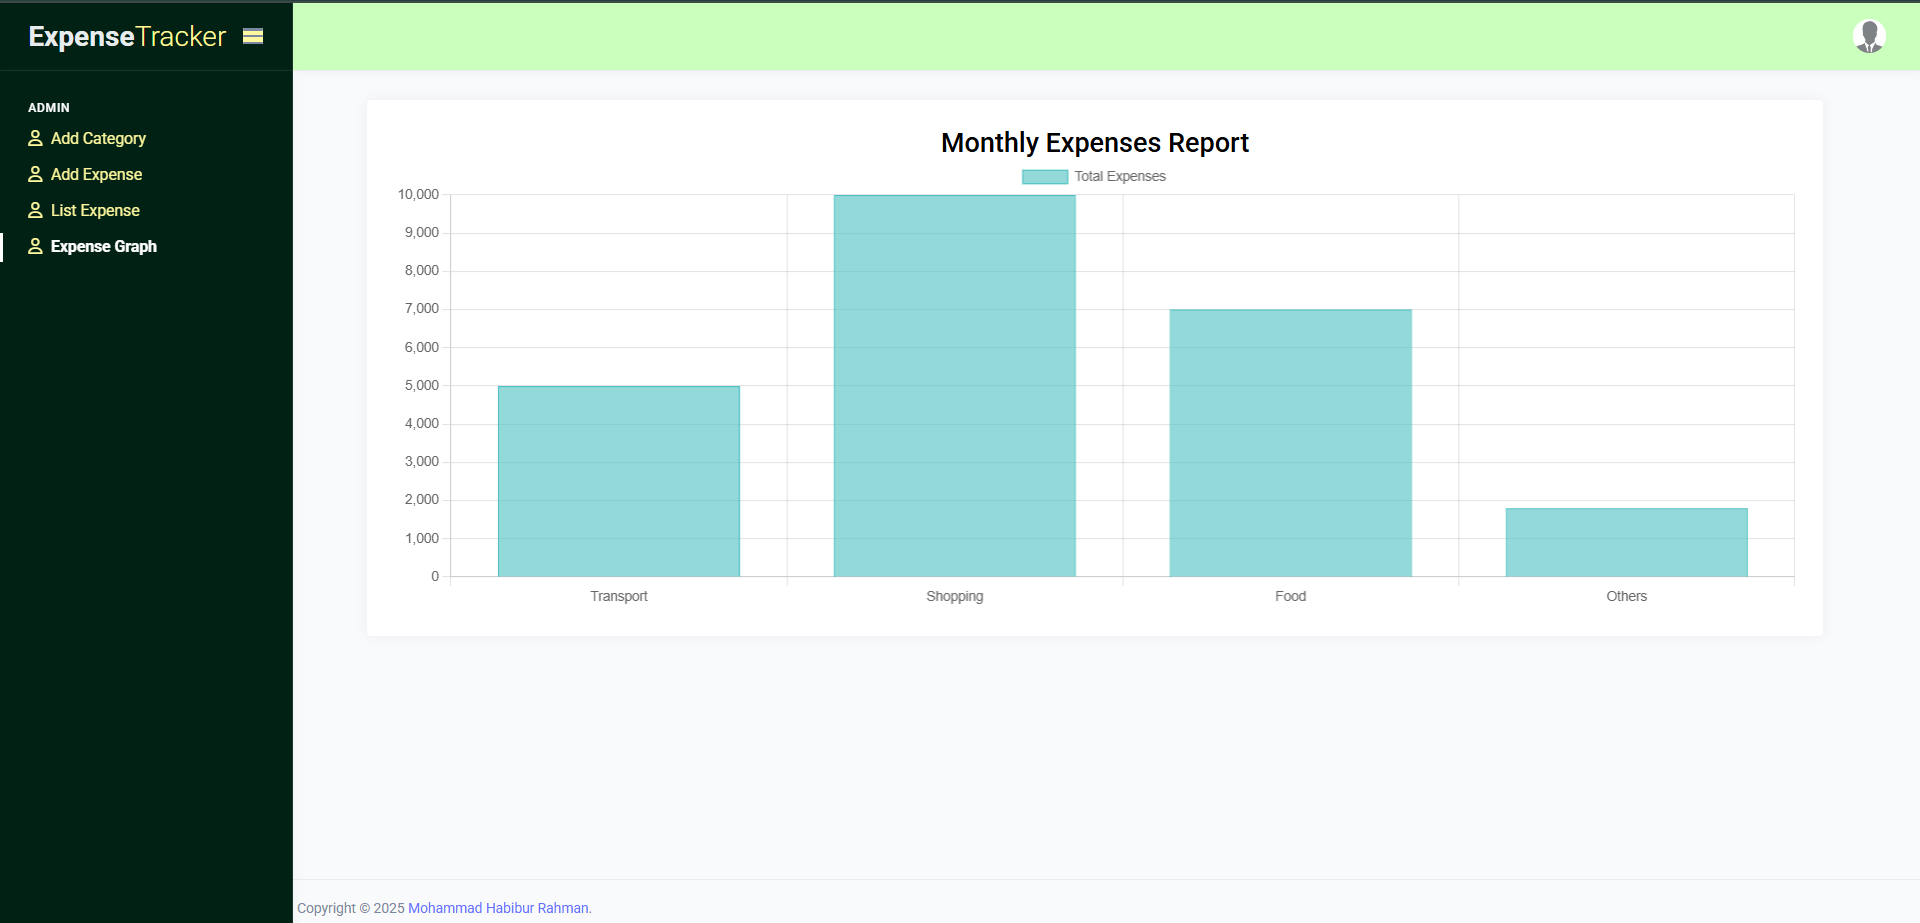
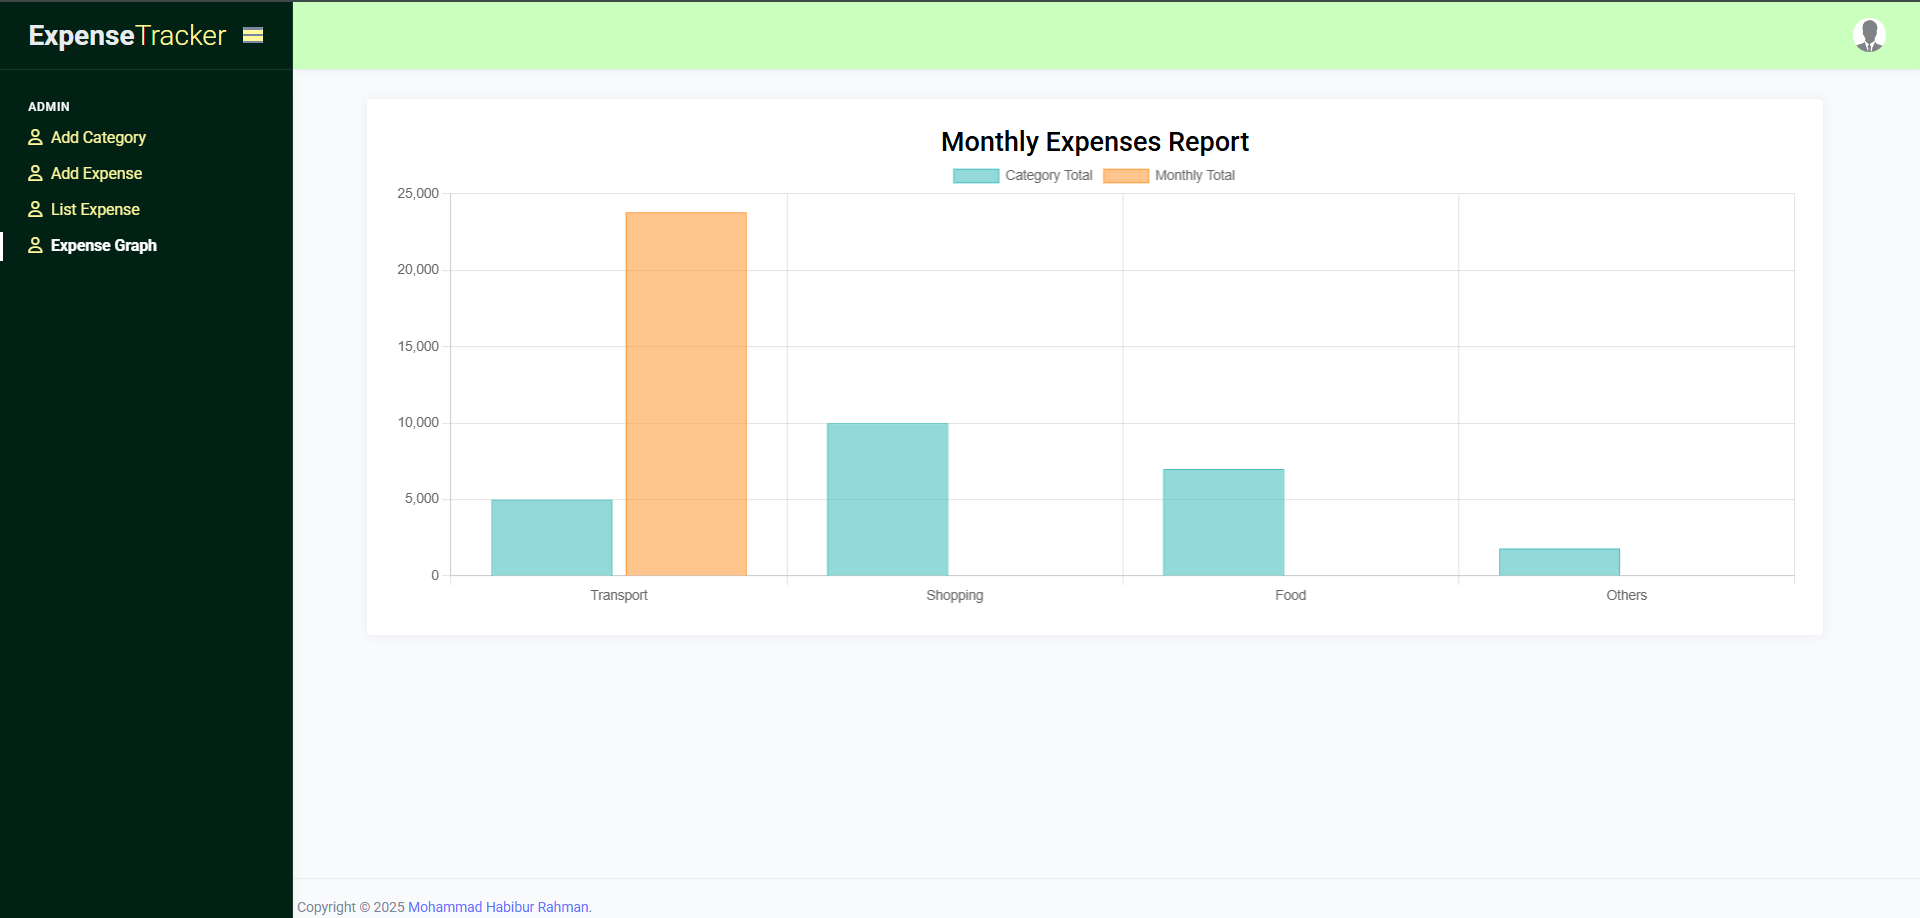
updated-graph-list-images

diff --git a/resources/views/backend/pages/list_expense.blade.php b/resources/views/backend/pages/list_expense.blade.php
@@ -4,39 +4,45 @@
 <div class="page-content">
     <div class="row justify-content-center">
         <div class="col-md-11">
-            <div class="card">
-                <div class="card-body">
-                    <table class="table table-bordered">
-                        <thead>
-                            <tr class="table-primary">
-                                <th colspan="3" class="text-end fw-bold text-danger">Total Amount:</th>
-                                <th class="fw-bold text-danger">{{ $data['expenses']->sum('amount') }}</th>
-                            </tr>
-                            <tr>
-                                <th>ID</th>
-                                <th>Category</th>
-                                <th>Title</th>
-                                <th>Amount</th>
-                            </tr>
-                        </thead>
-                        <tbody>
-                            @forelse($data['expenses'] as $index => $expense)
-                                <tr>
-                                    <td>{{ $index + 1 }}</td>
-                                    <td>{{ $expense->category->name ?? 'N/A' }}</td>
-                                    <td>{{ $expense->title }}</td>
-                                    <td>{{ $expense->amount }}</td>
+            @foreach($data['expenses'] as $month => $monthExpenses)
+                <div class="card mb-4">
+                    <div class="text-start ms-4 mt-4">
+                        <h5 class="mb-0">{{ $month }}</h5>
+                    </div>
+                    <div class="card-body">
+                        <table class="table table-bordered">
+                            <thead>
+                                <tr class="table-primary">
+                                    <th colspan="3" class="text-end fw-bold text-danger">Total Amount:</th>
+                                    <th class="fw-bold text-danger">{{ $monthExpenses->sum('amount') }}</th>
                                 </tr>
-                            @empty
                                 <tr>
-                                    <td colspan="4" class="text-center">No expenses found</td>
+                                    <th>ID</th>
+                                    <th>Category</th>
+                                    <th>Title</th>
+                                    <th>Amount</th>
                                 </tr>
-                            @endforelse
-                        </tbody>
-                    </table>
+                            </thead>
+                            <tbody>
+                                @forelse($monthExpenses as $index => $expense)
+                                    <tr>
+                                        <td>{{ $index + 1 }}</td>
+                                        <td>{{ $expense->category->name ?? 'N/A' }}</td>
+                                        <td>{{ $expense->title }}</td>
+                                        <td>{{ $expense->amount }}</td>
+                                    </tr>
+                                @empty
+                                    <tr>
+                                        <td colspan="4" class="text-center">No expenses found</td>
+                                    </tr>
+                                @endforelse
+                            </tbody>
+                        </table>
+                    </div>
                 </div>
-            </div>
+            @endforeach
+
         </div>
     </div>
 </div>
-@endsection 
+@endsection

diff --git a/app/Http/Controllers/backend/ExpenseController.php b/app/Http/Controllers/backend/ExpenseController.php
@@ -52,32 +52,42 @@ class ExpenseController extends Controller implements HasMiddleware
         $data = [
             'active_menu' => 'expense_list',
             'page_title'  => 'Expense List',
-            'expenses'    => Expense::latest()->get(),
+            'expenses'    => Expense::with('category')
+                                ->orderBy('created_at', 'desc')
+                                ->get()
+                                ->groupBy(function ($expense) {
+                                    return Carbon::parse($expense->created_at)->format('F Y');
+                                }),
         ];
 
         return view('backend.pages.list_expense', compact('data'));
     }
 
+
+
+
     public function monthlyReport()
     {
-        $expenses = Expense::with('category')
-            ->whereYear('created_at', Carbon::now()->year)
-            ->whereMonth('created_at', Carbon::now()->month)
-            ->get();
+        $expenses = Expense::with('category')->get();
 
-       
-        $grouped = $expenses->groupBy(fn($item) => $item->category->name ?? 'Others')
-        ->map(fn($group) => $group->sum('amount'));
+        $groupedByCategory = $expenses->groupBy(fn($item) => $item->category->name ?? 'Others')
+                                    ->map(fn($group) => $group->sum('amount'));
+
+        $groupedByMonth = $expenses->groupBy(fn($item) => Carbon::parse($item->created_at)->format('F'))
+                                    ->map(fn($group) => $group->sum('amount'));
 
         $data = [
-            'active_menu' => 'monthly_report',
-            'page_title'  => 'Monthly Expenses Report',
-            'categories' => $grouped->keys()->toArray(),
-            'totals'     => $grouped->values()->toArray(),
-            'expenses'   => $expenses,
+            'active_menu'    => 'monthly_report',
+            'page_title'     => 'Monthly Expenses Report',
+            'categories'     => $groupedByCategory->keys()->toArray(),
+            'totals'         => $groupedByCategory->values()->toArray(),
+            'monthly_labels' => $groupedByMonth->keys()->toArray(),
+            'monthly_totals' => $groupedByMonth->values()->toArray(),
+            'expenses'       => $expenses,
         ];
 
         return view('backend.pages.monthly_report', compact('data'));
     }
+
 
 }

diff --git a/resources/views/backend/pages/monthly_report.blade.php b/resources/views/backend/pages/monthly_report.blade.php
@@ -19,14 +19,23 @@
     new Chart(document.getElementById('monthlyChart'), {
         type: 'bar',
         data: {
-            labels: @json($data['categories']),
-            datasets: [{
-                label: 'Total Expenses',
-                data: @json($data['totals']), 
-                backgroundColor: 'rgba(75, 192, 192, 0.6)',
-                borderColor: 'rgba(75, 192, 192, 1)',
-                borderWidth: 1
-            }]
+            labels: @json($data['categories']), // category names
+            datasets: [
+                {
+                    label: 'Category Total',
+                    data: @json($data['totals']),
+                    backgroundColor: 'rgba(75, 192, 192, 0.6)',
+                    borderColor: 'rgba(75, 192, 192, 1)',
+                    borderWidth: 1
+                },
+                {
+                    label: 'Monthly Total',
+                    data: @json($data['monthly_totals']),
+                    backgroundColor: 'rgba(255, 159, 64, 0.6)',
+                    borderColor: 'rgba(255, 159, 64, 1)',
+                    borderWidth: 1
+                }
+            ]
         },
         options: {
             responsive: true,

diff --git a/resources/views/backend/pages/add_expense.blade.php b/resources/views/backend/pages/add_expense.blade.php
@@ -14,7 +14,7 @@
                     <form action="{{ route('admin.expense') }}" method="POST">
                         @csrf
                         <div class="mb-3">
-                            <label class="form-label">Category</label>
+                            <label class="">Category</label>
                             <select name="category_id" class="form-select js-example-basic-single" required>
                                 <option value="">Select Category</option>
                                 @foreach($data['categories'] as $category)
